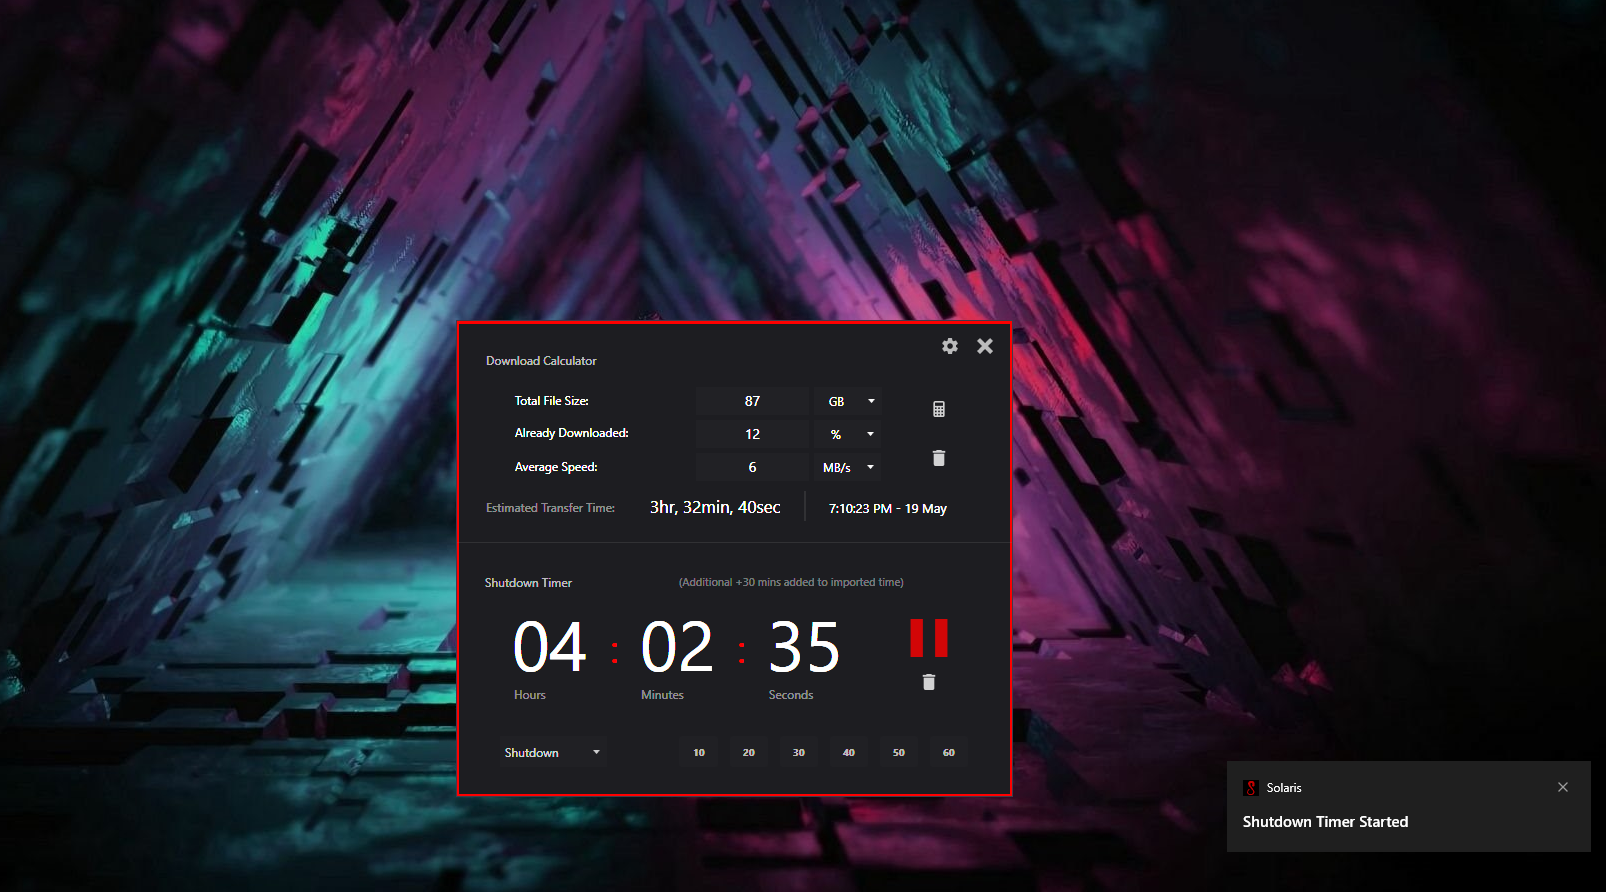
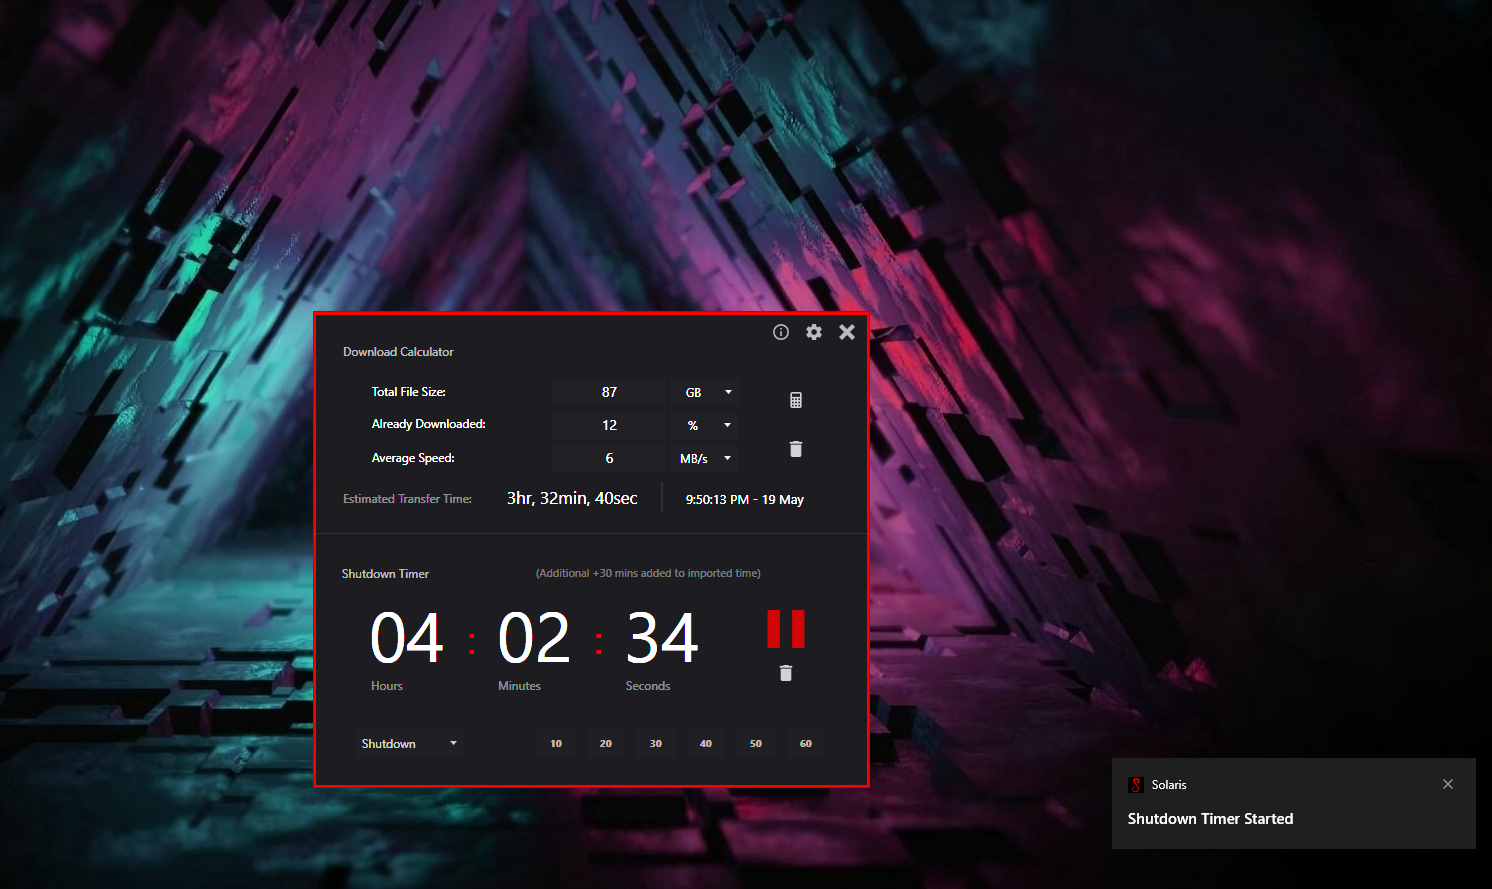
Update v1.1.2
- added simple app info dialog
- added more images & updated readme

diff --git a/Solaris/MainWindow.xaml b/Solaris/MainWindow.xaml
@@ -1,10 +1,10 @@
 <mah:MetroWindow
     x:Class="Solaris.MainWindow"
     xmlns="http://schemas.microsoft.com/winfx/2006/xaml/presentation"
-    xmlns:x="http://schemas.microsoft.com/winfx/2006/xaml"
-    xmlns:d="http://schemas.microsoft.com/expression/blend/2008"
-    xmlns:iconPacks="http://metro.mahapps.com/winfx/xaml/iconpacks"
     xmlns:mah="http://metro.mahapps.com/winfx/xaml/controls"
+    xmlns:iconPacks="http://metro.mahapps.com/winfx/xaml/iconpacks"
+    xmlns:d="http://schemas.microsoft.com/expression/blend/2008"
+    xmlns:x="http://schemas.microsoft.com/winfx/2006/xaml"
     xmlns:mc="http://schemas.openxmlformats.org/markup-compatibility/2006"
     Title="Solaris"
     Width="557"
@@ -33,10 +33,30 @@
             Background="Red"
             Focusable="False"
             IsTabStop="False" />
+
+        <Button
+            x:Name="ButtonInfo"
+            Height="28"
+            Margin="454,6,75,0"
+            VerticalAlignment="Top"
+            Background="#FF1D1D21"
+            BorderThickness="0"
+            Click="ButtonInfo_Click"
+            Cursor="Hand"
+            Focusable="False"
+            Opacity="0.7">
+            <Grid>
+                <iconPacks:PackIconMaterial
+                    HorizontalAlignment="Center"
+                    VerticalAlignment="Center"
+                    Kind="InformationOutline" />
+            </Grid>
+        </Button>
+
         <Button
             x:Name="ButtonSettings"
-            Height="34"
-            Margin="477,8,45,0"
+            Height="28"
+            Margin="487,6,42,0"
             VerticalAlignment="Top"
             Background="#FF1D1D21"
             BorderThickness="0"
@@ -53,8 +73,8 @@
         </Button>
         <Button
             x:Name="ButtonExit"
-            Height="34"
-            Margin="512,8,10,0"
+            Height="28"
+            Margin="520,6,9,0"
             VerticalAlignment="Top"
             Background="#FF1D1D21"
             BorderThickness="0"
@@ -69,6 +89,72 @@
                     Kind="CloseThick" />
             </Grid>
         </Button>
+
+        <mah:FlyoutsControl>
+            <mah:Flyout
+                x:Name="InfoFlyout"
+                Margin="1,102,0,98"
+                mah:HeaderedControlHelper.HeaderMargin="-50,0,0,0"
+                Background="#FF212125"
+                Focusable="False"
+                IsOpen="False"
+                IsTabStop="False"
+                Position="Top">
+                <Grid x:Name="MainInfoGrid" Visibility="Collapsed">
+                    <Button
+                        x:Name="ButtonCloseInfo"
+                        Height="34"
+                        Margin="496,14,26,0"
+                        VerticalAlignment="Top"
+                        Background="#FF212127"
+                        BorderThickness="0"
+                        Click="ButtonCloseInfo_Click"
+                        Cursor="Hand"
+                        Focusable="False"
+                        Opacity="0.7">
+                        <Grid>
+                            <iconPacks:PackIconMaterial
+                                Width="14"
+                                Height="14"
+                                HorizontalAlignment="Center"
+                                VerticalAlignment="Center"
+                                Kind="CloseThick" />
+                        </Grid>
+                    </Button>
+                    <TextBlock
+                        Height="26"
+                        Margin="22,18,62,0"
+                        VerticalAlignment="Top"
+                        FontSize="18"
+                        Opacity="0.7"
+                        Text=" Info" />
+                    <Image Margin="-5,44,-4,175" Source="pack://application:,,,/Images/AppName.png" />
+                    <Label
+                        x:Name="VersionLabel"
+                        Margin="70,189,75,45"
+                        Content="Version:  " />
+                    <Label
+                        x:Name="GitLabel"
+                        Margin="69,210,76,23"
+                        Content="https://github.com/aSavagePancake/Solaris" />
+                    <Frame
+                        Height="3"
+                        Margin="-7,0,0,0"
+                        VerticalAlignment="Top"
+                        Background="Red"
+                        Focusable="False"
+                        IsTabStop="False"
+                        Visibility="Visible" />
+                    <Border
+                        Height="5"
+                        Margin="-5,272,0,0"
+                        VerticalAlignment="Top"
+                        Background="Gray"
+                        BorderThickness="1"
+                        Opacity="0.2" />
+                </Grid>
+            </mah:Flyout>
+        </mah:FlyoutsControl>
 
         <Grid x:Name="SettingsGrid">
             <mah:FlyoutsControl>
@@ -192,6 +278,16 @@
                             Content="[This is to factor in speed drops etc]"
                             FontSize="11"
                             Opacity="0.7" />
+                        <Label
+                            x:Name="labelDisableAddTime"
+                            Width="202"
+                            Height="28"
+                            Margin="74,210,0,0"
+                            HorizontalAlignment="Left"
+                            VerticalAlignment="Top"
+                            Background="#FF212125"
+                            Opacity="0.5"
+                            Visibility="Collapsed" />
                         <Frame
                             Height="3"
                             Margin="-7,0,0,0"
@@ -207,16 +303,6 @@
                             Background="Gray"
                             BorderThickness="1"
                             Opacity="0.2" />
-                        <Label
-                            x:Name="labelDisableAddTime"
-                            Width="202"
-                            Height="28"
-                            Margin="74,210,0,0"
-                            HorizontalAlignment="Left"
-                            VerticalAlignment="Top"
-                            Background="#FF212125"
-                            Opacity="0.5"
-                            Visibility="Collapsed" />
                     </Grid>
                 </mah:Flyout>
             </mah:FlyoutsControl>

diff --git a/Solaris/MainWindow.xaml.cs b/Solaris/MainWindow.xaml.cs
@@ -59,6 +59,9 @@ namespace Solaris
                 SetValue(ToolTipEnabledProperty, false);
             }
 
+            VersionLabel.Content += GetVersion;
+
+            InfoFlyout.IsOpenChanged += InfoFlyoutIsOpenChanged;
             SettingsFlyout.IsOpenChanged += SettingsFlyoutIsOpenChanged;
         }
 
@@ -74,11 +77,32 @@ namespace Solaris
                 }
             }));
 
+        private void InfoFlyoutIsOpenChanged(object sender, RoutedEventArgs e)
+        {
+            if (InfoFlyout.IsOpen)
+            {
+                MainGrid.Visibility = Visibility.Collapsed;
+                ButtonInfo.Visibility = Visibility.Collapsed;
+                ButtonSettings.Visibility = Visibility.Collapsed;
+                ButtonExit.Visibility = Visibility.Collapsed;
+                MainInfoGrid.Visibility = Visibility.Visible;
+            }
+            else
+            {
+                MainGrid.Visibility = Visibility.Visible;
+                ButtonInfo.Visibility = Visibility.Visible;
+                ButtonSettings.Visibility = Visibility.Visible;
+                ButtonExit.Visibility = Visibility.Visible;
+                MainInfoGrid.Visibility = Visibility.Collapsed;
+            }
+        }
+
         private void SettingsFlyoutIsOpenChanged(object sender, RoutedEventArgs e)
         {
             if (SettingsFlyout.IsOpen)
             {
                 MainGrid.Visibility = Visibility.Collapsed;
+                ButtonInfo.Visibility = Visibility.Collapsed;
                 ButtonSettings.Visibility = Visibility.Collapsed;
                 ButtonExit.Visibility = Visibility.Collapsed;
                 MainSettingsGrid.Visibility = Visibility.Visible;
@@ -111,6 +135,7 @@ namespace Solaris
             else
             {
                 MainSettingsGrid.Visibility = Visibility.Collapsed;
+                ButtonInfo.Visibility = Visibility.Visible;
                 ButtonSettings.Visibility = Visibility.Visible;
                 ButtonExit.Visibility = Visibility.Visible;
                 MainGrid.Visibility = Visibility.Visible;
@@ -673,6 +698,16 @@ namespace Solaris
             }
         }
 
+        private void ButtonInfo_Click(object sender, RoutedEventArgs e)
+        {
+            InfoFlyout.IsOpen = true;
+        }
+
+        private void ButtonCloseInfo_Click(object sender, RoutedEventArgs e)
+        {
+            InfoFlyout.IsOpen = false;
+        }
+
         private void ButtonSettings_Click(object sender, RoutedEventArgs e)
         {
             SettingsFlyout.IsOpen = true;
@@ -754,5 +789,7 @@ namespace Solaris
                 labelDisableAddTime.Visibility = Visibility.Visible;
             }
         }
+
+        public static string GetVersion => System.Reflection.Assembly.GetExecutingAssembly().GetName().Version!.ToString();
     }
 }

diff --git a/README.md b/README.md
@@ -11,3 +11,8 @@ Microsoft.Toolkit.Uwp.Notifications > https://github.com/CommunityToolkit/Window
 
 Main UI ..  
 ![](images/Screenshot.png)
+
+
+More ..  
+![](images/ScreenshotSettings.png)
+![](images/ScreenshotInfo.png)
